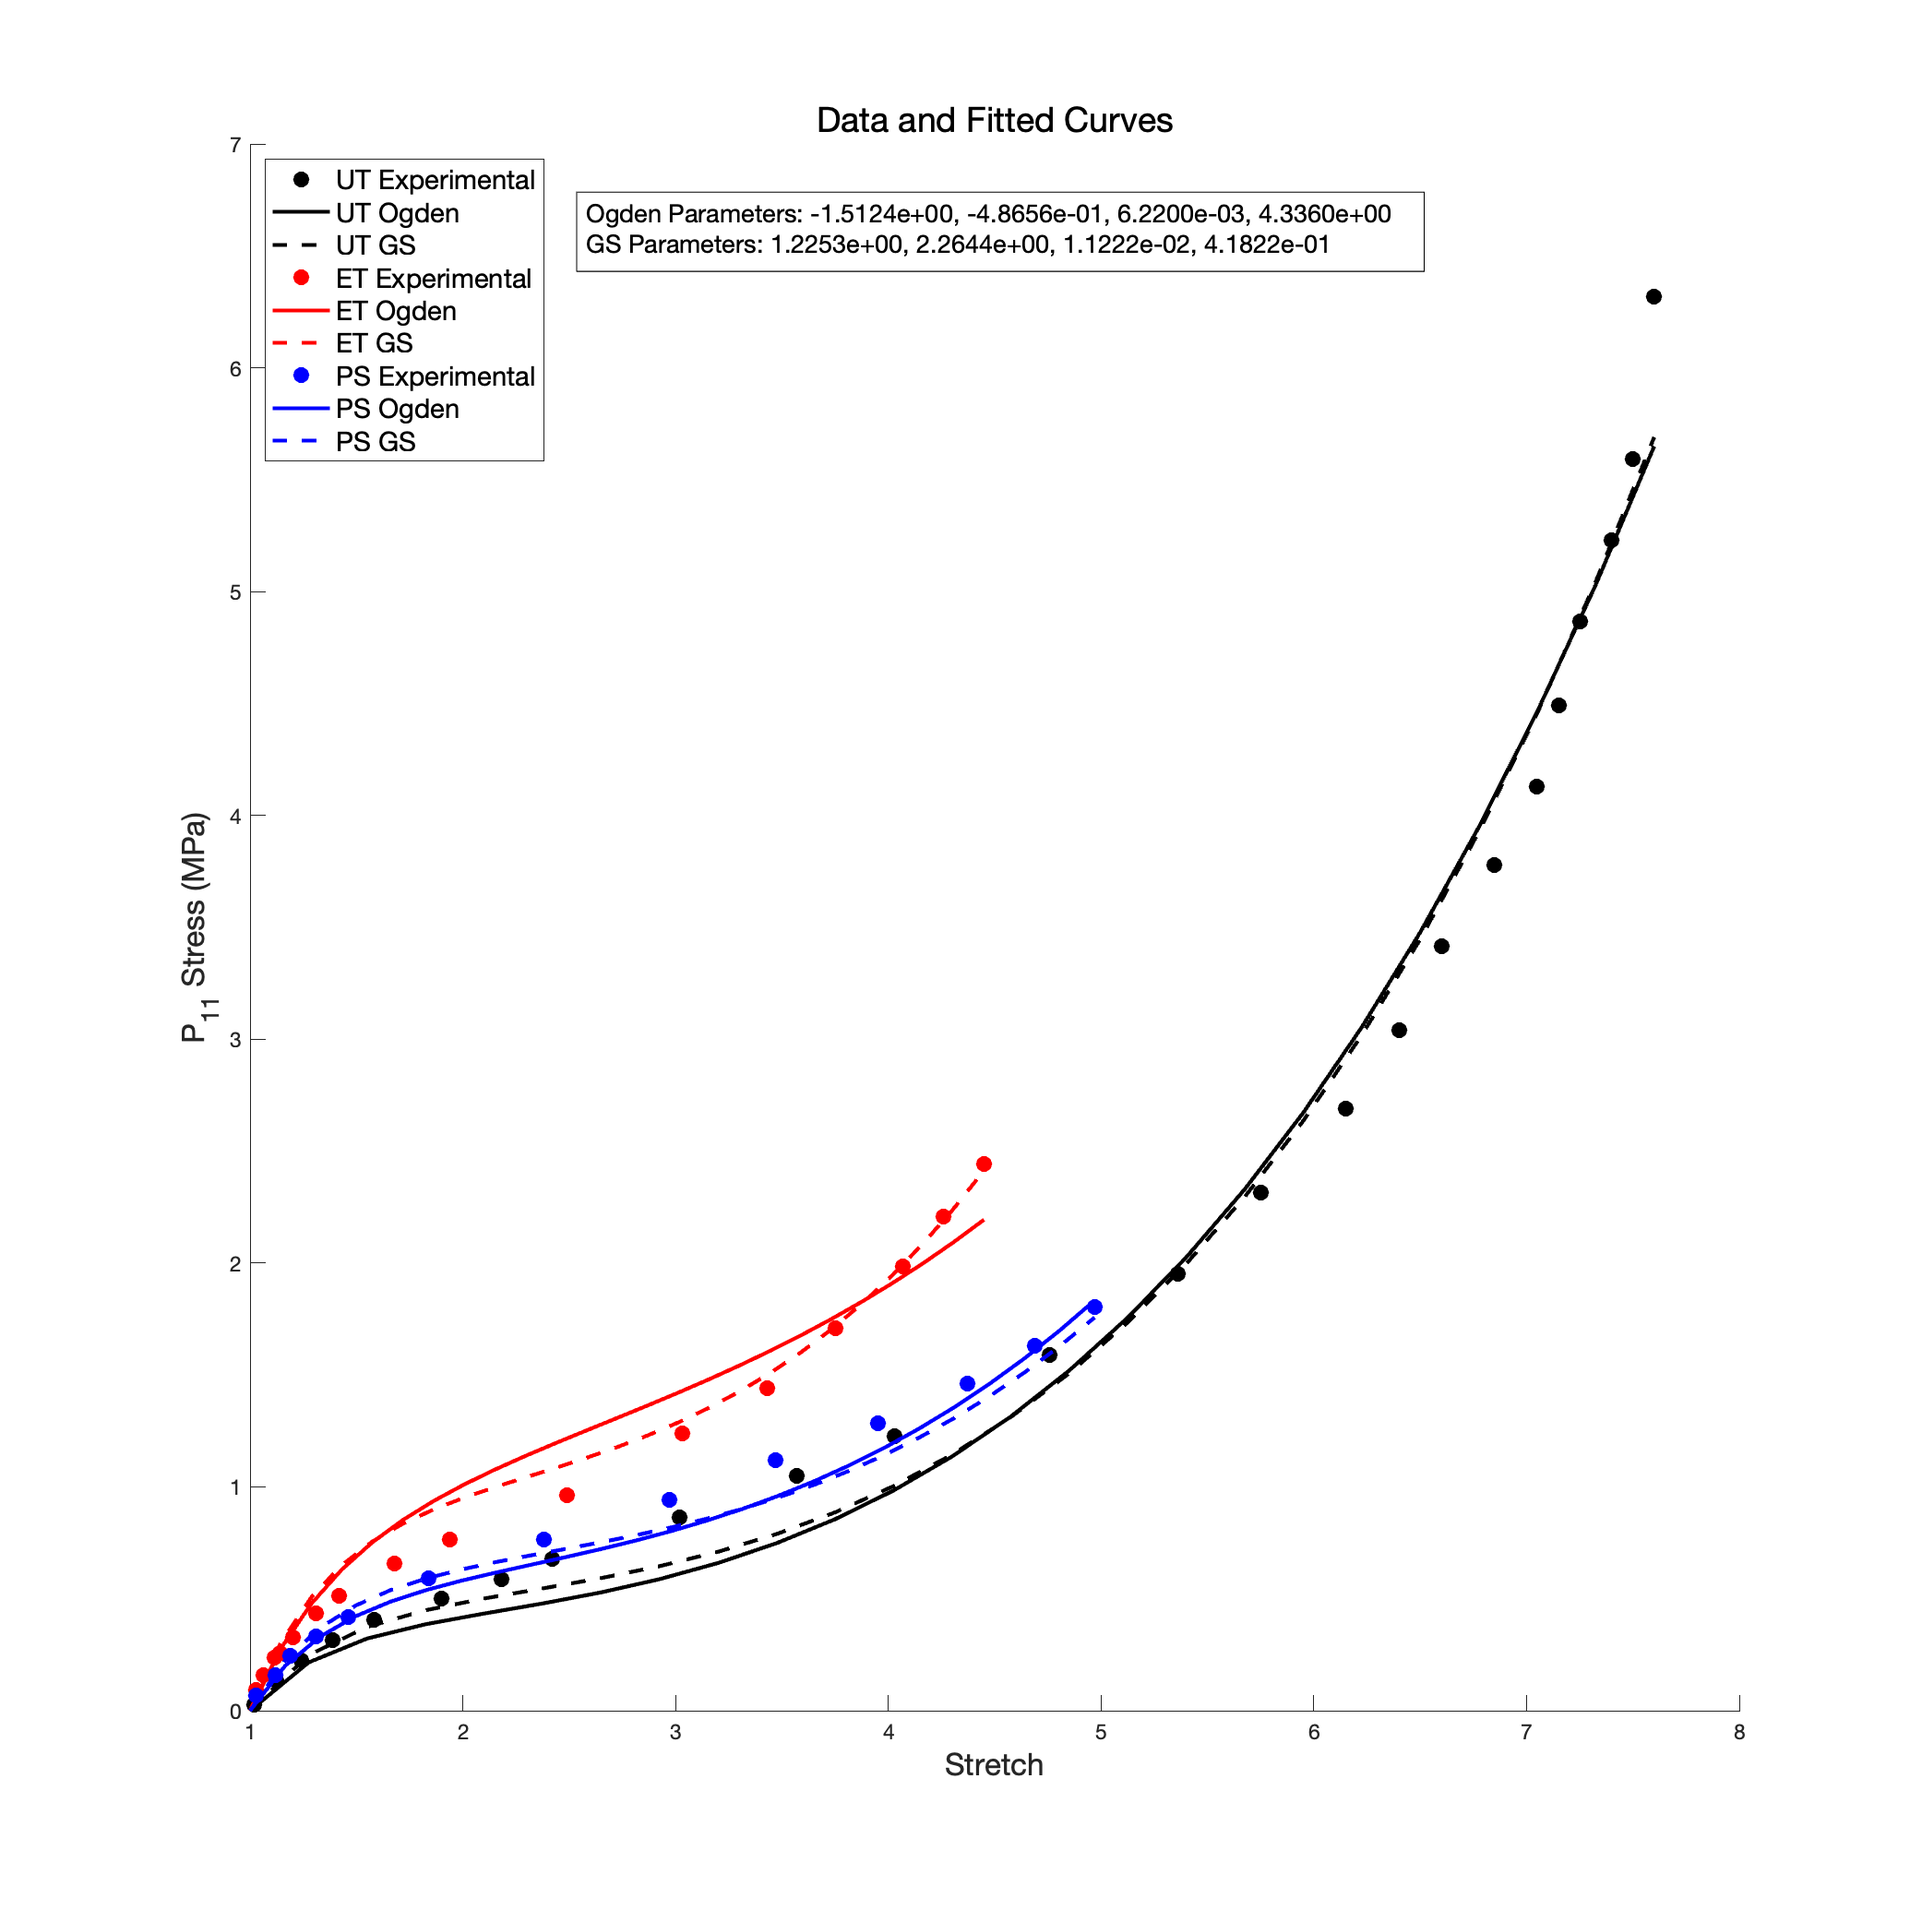
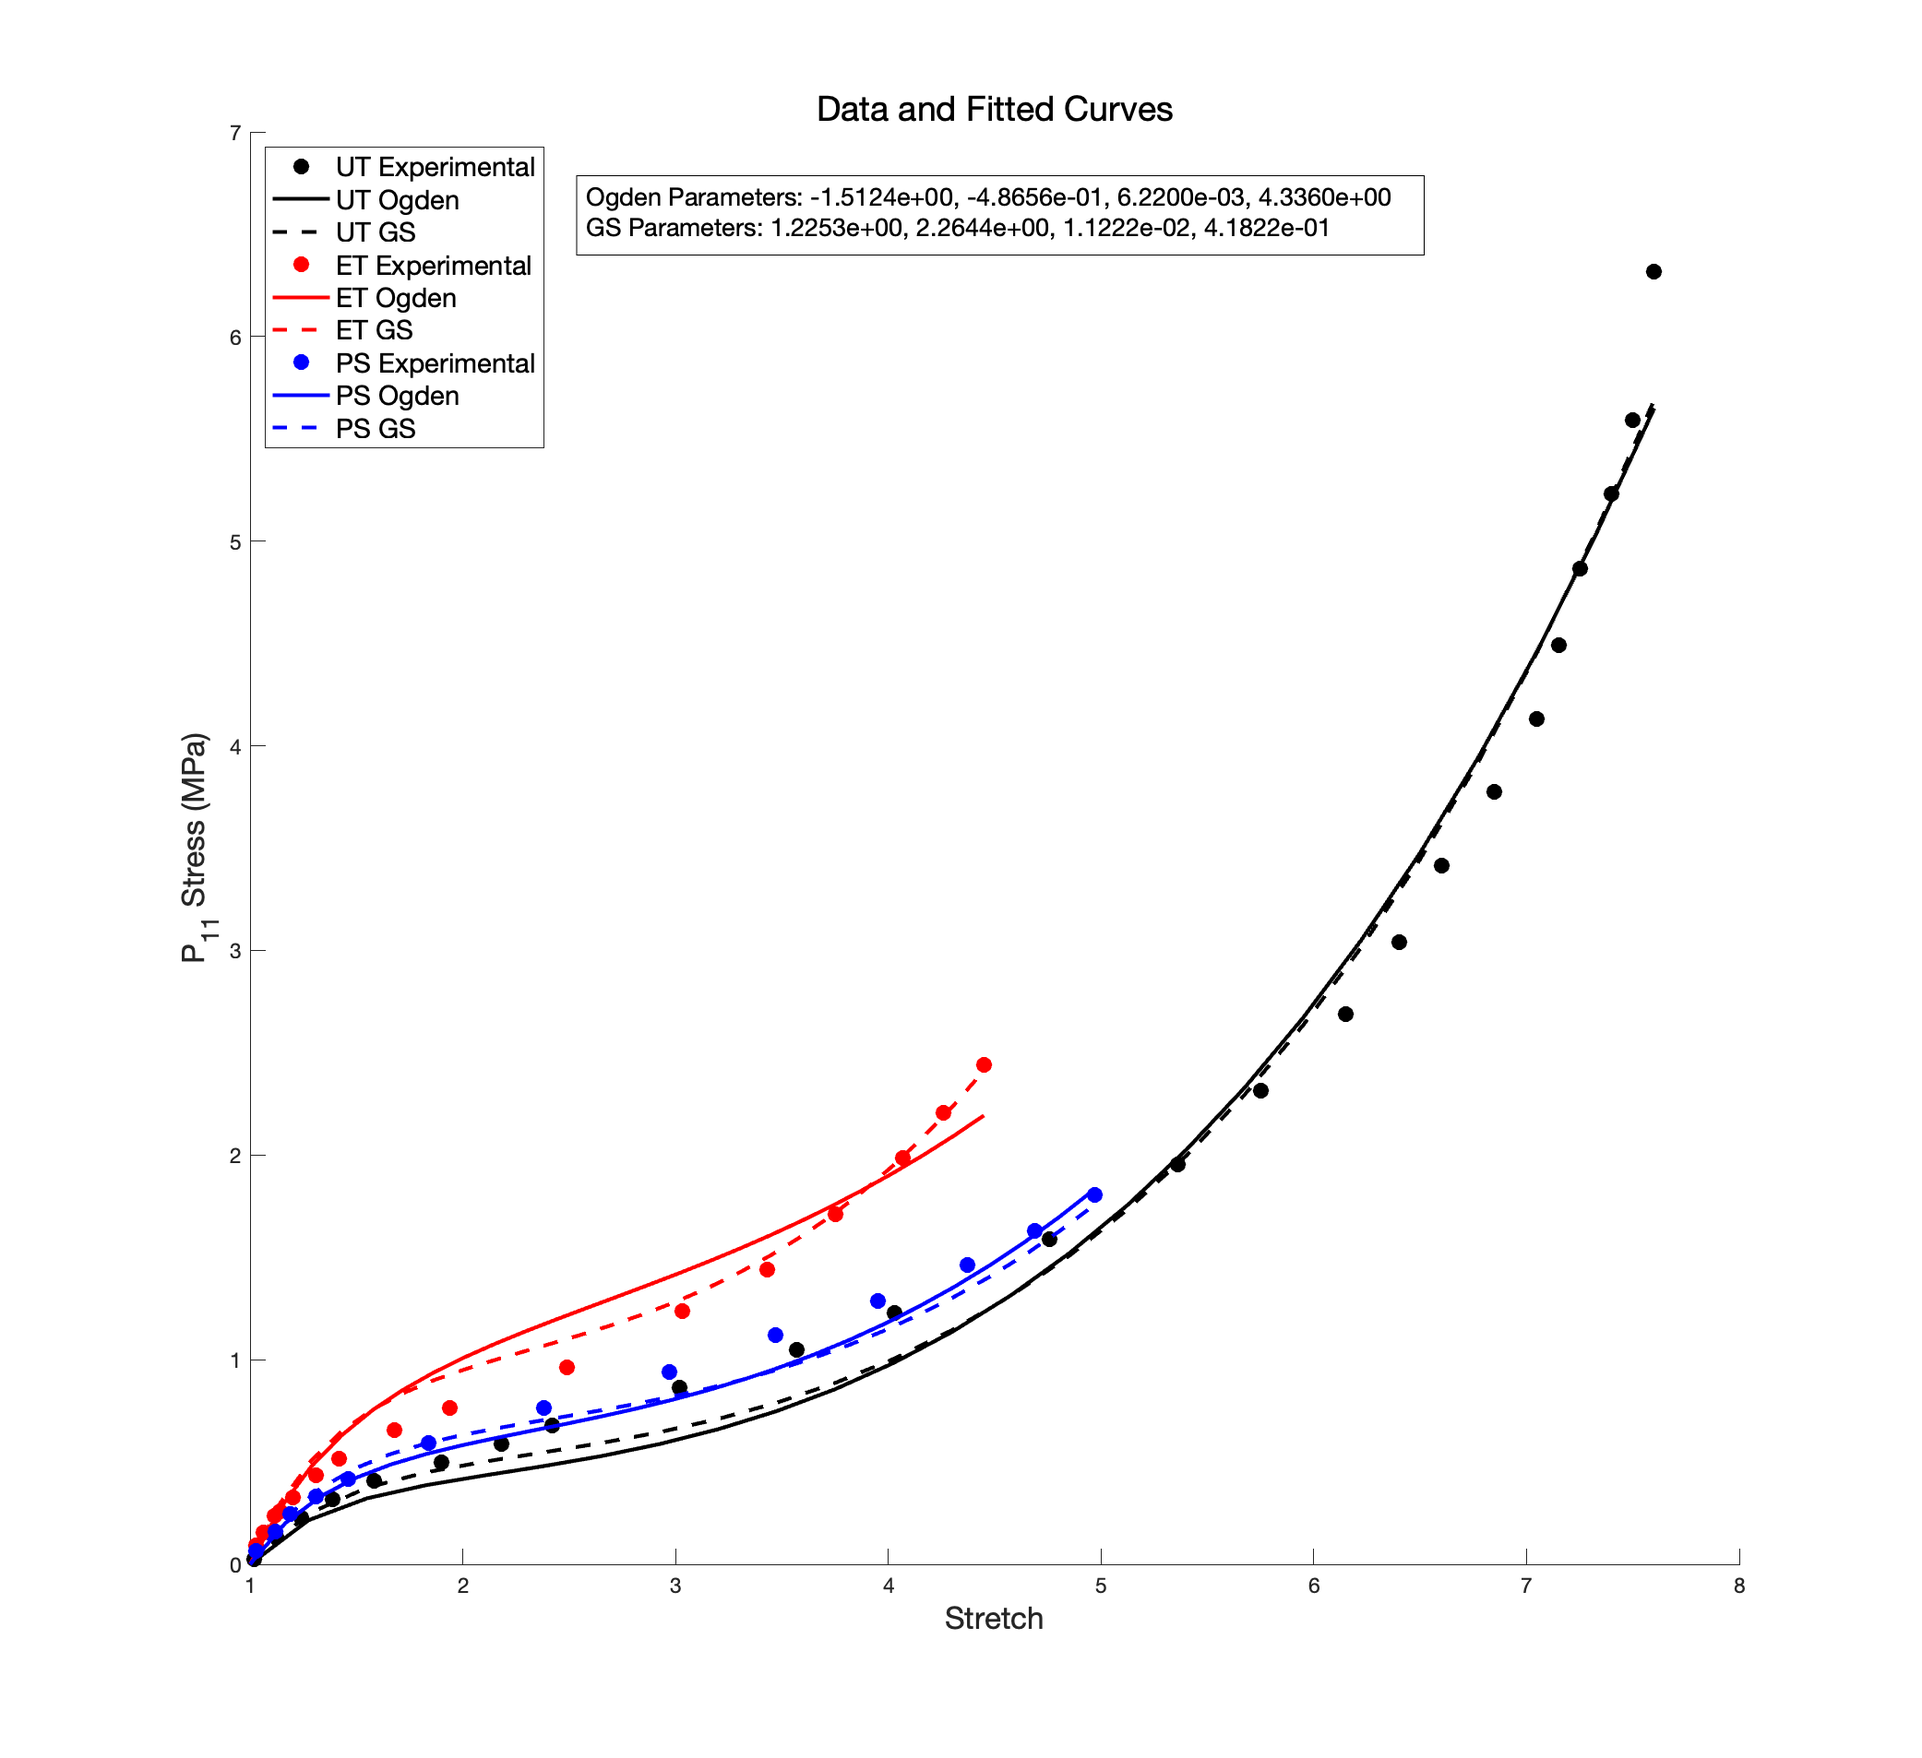
update

diff --git a/GS_fitting_to_Ogden.m b/GS_fitting_to_Ogden.m
@@ -2,13 +2,15 @@ clc;clear;
 close all
 
 % Prescribed stretch
-UT_x = linspace(1, 8, 10);
-ET_x = linspace(1, 5, 10);
-PS_x = linspace(1, 5, 10);
+UT_x = linspace(1, 8, 100);
+ET_x = linspace(1, 5, 100);
+PS_x = linspace(1, 5, 100);
 
 % Ogden_paras = [mu_1, alpha_1, mu_2, alpha_2, mu_3, alpha_3]
-% Unit of mu: MPa
-Ogden_paras = [51.4, 1.8, -18, -2, 3.86, 7];
+% Unit of mu: Psi
+Ogden_paras = [20, 1.8, -7, -2, 1.5, 7];
+% Ogden_paras = [0.63, 1.3, -0.01, -2, 0.0012, 5];
+mu = 0.5 * ( Ogden_paras(1)*Ogden_paras(2) + Ogden_paras(3)*Ogden_paras(4) + Ogden_paras(5)*Ogden_paras(6) );
 
 % P_11 of Ogden Model
 Ogden_UT = @(x, xdata) x(1) * ( xdata .^ (x(2) - 1.0) - xdata .^ (-0.5 * x(2) - 1.0) ) ... 
@@ -25,12 +27,12 @@ Ogden_PS = @(x, xdata) x(1) * ( xdata .^ (x(2) - 1.0) - xdata .^ (-1.0 * x(2) - 
 
 % Initial guess
 % GS_paras = [n_1, m_1, mu_1, n_2, m_2, mu_2] 
-% Unit of mu: MPa
-GS_paras_0 = [1.0, 1.0, 1.0, 1.0, 3.0, 2.0];
+% Unit of mu: Psi
+GS_paras_0 = [1.0, 1.0, 25, 0.1, 1.0];
 
 % tool function for generalized strain
 term1 = @(x, xdata) 2*x(3)*(xdata.^x(2) - xdata.^(-x(1))) .* ((x(2).*(xdata.^(x(2)-1)) + x(1).*(xdata.^(-x(1)-1)) )  / (x(2)+x(1)).^2);
-term2 = @(x, xdata) 2*x(6)*(xdata.^x(5) - xdata.^(-x(4))) .* ((x(5).*(xdata.^(x(5)-1)) + x(4).*(xdata.^(-x(4)-1)) )  / (x(5)+x(4)).^2);
+term2 = @(x, xdata) 2* (mu-x(3)) *(xdata.^x(5) - xdata.^(-x(4))) .* ((x(5).*(xdata.^(x(5)-1)) + x(4).*(xdata.^(-x(4)-1)) )  / (x(5)+x(4)).^2);
 
 % P_11 of generalized strain
 GS_UT = @(x, xdata) term1(x, xdata) + term2(x, xdata) - (xdata.^(-1.5)) .* ( term1(x, xdata.^(-0.5)) + term2(x, xdata.^(-0.5)) );
@@ -41,17 +43,14 @@ objectiveFunction = @(x) sum((GS_UT(x, UT_x) - Ogden_UT(Ogden_paras, UT_x)).^2) 
                          sum((GS_ET(x, ET_x) - Ogden_ET(Ogden_paras, ET_x)).^2) ./ length(ET_x) +...
                          sum((GS_PS(x, PS_x) - Ogden_PS(Ogden_paras, PS_x)).^2) ./ length(PS_x);
 
-lb = [-10, -10, 0, -10, -10, 0];
-ub = [10, 10, 100, 10, 10, 100];
+lb = [-Inf, -Inf, 0, -Inf, -Inf];
+ub = [Inf, Inf, mu, Inf, Inf];
 
-% options = optimoptions('lsqnonlin', 'Algorithm', 'interior-point', 'MaxIterations', 5000);
-% [GS_paras, ~] = lsqnonlin( objectiveFunction, GS_paras_0, lb, ub, options );
-nvars = 6;
-options = optimoptions('ga', 'MaxGenerations', 10000, 'Display', 'iter', 'UseParallel', true);
-[GS_paras, ~] = ga(objectiveFunction, nvars, [], [], [], [], lb, ub, [], options);
+options = optimoptions('lsqnonlin', 'Algorithm', 'interior-point', 'MaxIterations', 5000);
+[GS_paras, ~] = lsqnonlin( objectiveFunction, GS_paras_0, lb, ub, options );
 
 disp(['n_1 = ' num2str(GS_paras(1)) ' m_1 = ' num2str(GS_paras(2)) ' mu_1 = ' num2str(GS_paras(3))]);
-disp(['n_2 = ' num2str(GS_paras(4)) ' m_2 = ' num2str(GS_paras(5)) ' mu_2 = ' num2str(GS_paras(6))]);
+disp(['n_2 = ' num2str(GS_paras(4)) ' m_2 = ' num2str(GS_paras(5)) ' mu_2 = ' num2str(mu-GS_paras(3))]);
 resnorm = objectiveFunction(GS_paras);
 disp(['residual norm = ' num2str(resnorm)] );
 

diff --git a/Ogden_vs_GS.m b/Ogden_vs_GS.m
@@ -45,6 +45,20 @@ GS_UT = @(x, xdata) term1(x, xdata) + term2(x, xdata) - (xdata.^(-1.5)) .* ( ter
 GS_ET = @(x, xdata) term1(x, xdata) + term2(x, xdata) - (xdata.^(-3.0)) .* ( term1(x, xdata.^(-2.0)) + term2(x, xdata.^(-2.0)) );
 GS_PS = @(x, xdata) term1(x, xdata) + term2(x, xdata) - (xdata.^(-2.0)) .* ( term1(x, xdata.^(-1.0)) + term2(x, xdata.^(-1.0)) );
 
+% Residual norm
+GS_res = sum((GS_UT(GS_paras, Treloar_UT_strain)-Treloar_UT_stress) .* (GS_UT(GS_paras, Treloar_UT_strain)-Treloar_UT_stress))...
+       + sum((GS_ET(GS_paras, Treloar_ET_strain)-Treloar_ET_stress) .* (GS_ET(GS_paras, Treloar_ET_strain)-Treloar_ET_stress))...
+       + sum((GS_PS(GS_paras, Treloar_PS_strain)-Treloar_PS_stress) .* (GS_PS(GS_paras, Treloar_PS_strain)-Treloar_PS_stress));
+
+disp(['GS residual norm = ' num2str(GS_res)]);
+
+Ogden_res = sum((Ogden_UT(Ogden_paras, Treloar_UT_strain)-Treloar_UT_stress) .* (Ogden_UT(Ogden_paras, Treloar_UT_strain)-Treloar_UT_stress))...
+          + sum((Ogden_ET(Ogden_paras, Treloar_ET_strain)-Treloar_ET_stress) .* (Ogden_ET(Ogden_paras, Treloar_ET_strain)-Treloar_ET_stress))...
+          + sum((Ogden_PS(Ogden_paras, Treloar_PS_strain)-Treloar_PS_stress) .* (Ogden_PS(Ogden_paras, Treloar_PS_strain)-Treloar_PS_stress));
+
+disp(['Ogden residual norm = ' num2str(Ogden_res)]);
+
+
 % Prescribed stretch
 x_UT = linspace(1.0, max(Treloar_UT_strain), 25);
 x_ET = linspace(1.0, max(Treloar_ET_strain), 25);
@@ -142,6 +156,19 @@ GS_PS = @(x, xdata) term1(x, xdata) + term2(x, xdata) - (xdata.^(-2.0)) .* ( ter
 x_UT = linspace(1.0, max(Treloar_UT_strain), 25);
 x_ET = linspace(1.0, max(Treloar_ET_strain), 25);
 x_PS = linspace(1.0, max(Treloar_PS_strain), 25);
+
+% Residual norm
+GS_res = sum((GS_UT(GS_paras, Treloar_UT_strain)-Treloar_UT_stress) .* (GS_UT(GS_paras, Treloar_UT_strain)-Treloar_UT_stress))...
+       + sum((GS_ET(GS_paras, Treloar_ET_strain)-Treloar_ET_stress) .* (GS_ET(GS_paras, Treloar_ET_strain)-Treloar_ET_stress))...
+       + sum((GS_PS(GS_paras, Treloar_PS_strain)-Treloar_PS_stress) .* (GS_PS(GS_paras, Treloar_PS_strain)-Treloar_PS_stress));
+
+disp(['GS residual norm = ' num2str(GS_res)]);
+
+Ogden_res = sum((Ogden_UT(Ogden_paras, Treloar_UT_strain)-Treloar_UT_stress) .* (Ogden_UT(Ogden_paras, Treloar_UT_strain)-Treloar_UT_stress))...
+          + sum((Ogden_ET(Ogden_paras, Treloar_ET_strain)-Treloar_ET_stress) .* (Ogden_ET(Ogden_paras, Treloar_ET_strain)-Treloar_ET_stress))...
+          + sum((Ogden_PS(Ogden_paras, Treloar_PS_strain)-Treloar_PS_stress) .* (Ogden_PS(Ogden_paras, Treloar_PS_strain)-Treloar_PS_stress));
+
+disp(['Ogden residual norm = ' num2str(Ogden_res)]);
 
 % Plot
 figure;

diff --git a/lsqnonlin_fitting.m b/lsqnonlin_fitting.m
@@ -9,7 +9,7 @@ Treloar_ET_stress = importdata("./Treloar-ET/stress.txt");
 
 Treloar_PS_strain = importdata("./Treloar-PS/strain.txt");
 Treloar_PS_stress = importdata("./Treloar-PS/stress.txt");
-Model_name = 'Ogden4 Model';
+Model_name = 'GS Model';
 
 [paras, UT, ET, PS] = curve_fitting(Model_name, ...
                                     Treloar_UT_strain, Treloar_UT_stress, ...
